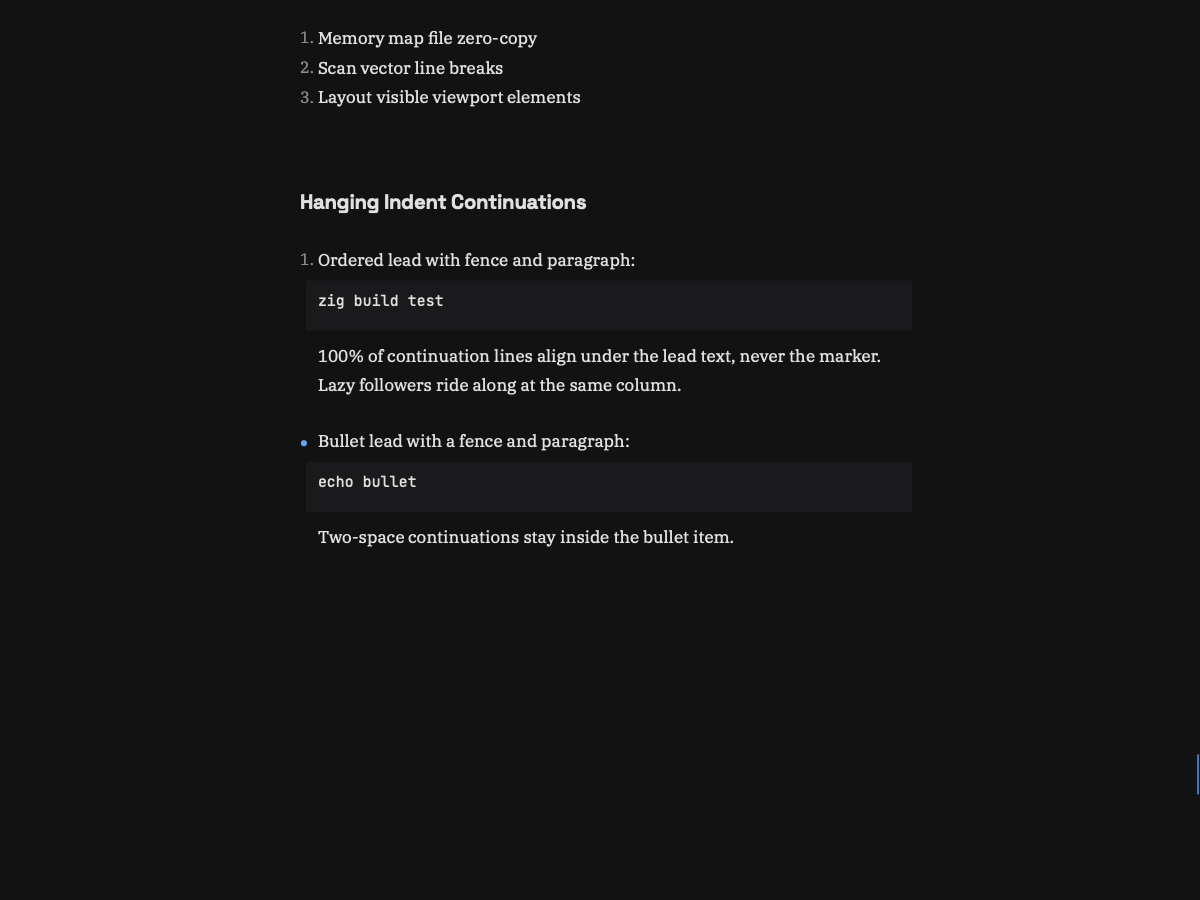
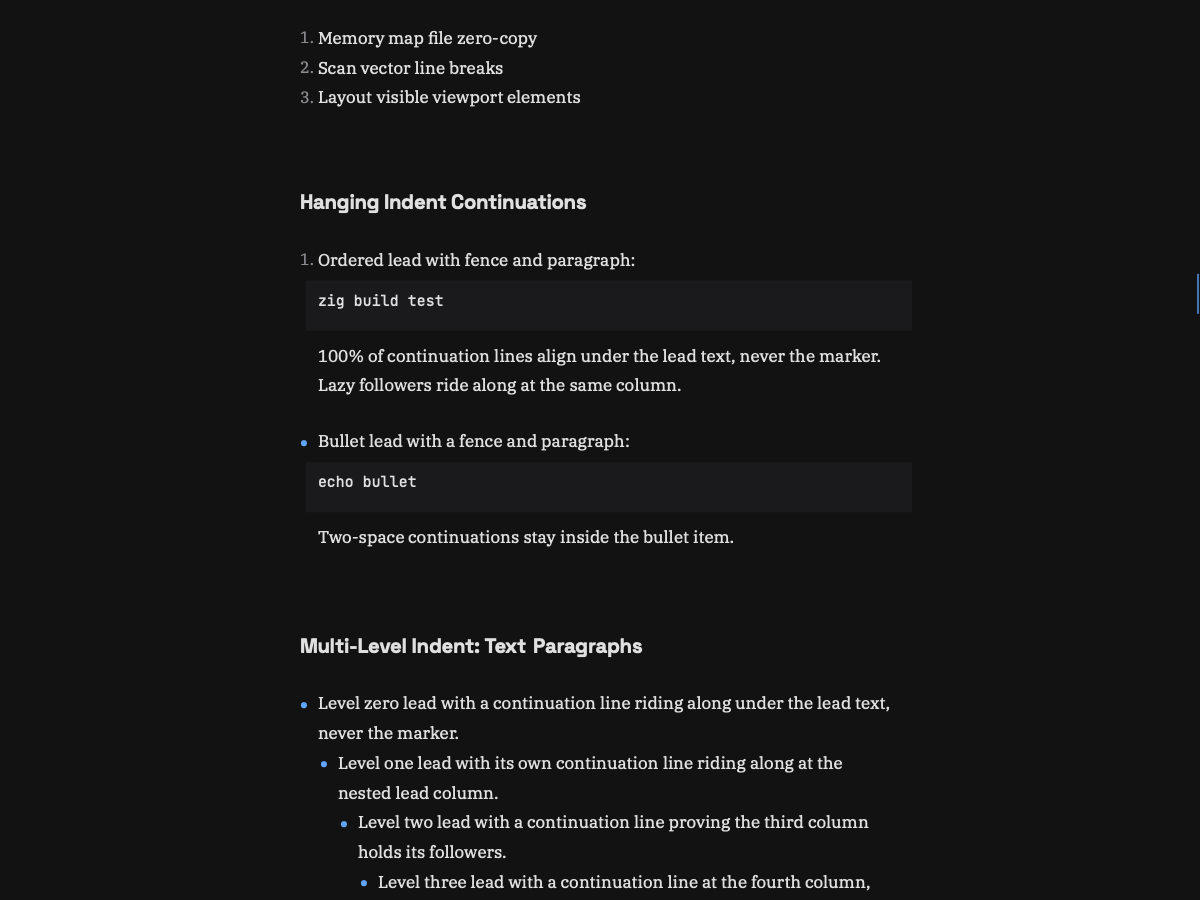
[#324] Multi-level indent 0-5 screenshots plus nested-fence support
Owner round-two: cover multi-level indenting (0-5) with text paragraphs
and with code blocks. Same-doc scrolled frames only (3c/3d), no new test
case.

The code-blocks coverage exposed two real gaps, both fixed cold (scanner
untouched, zero hot-path cost):
- promoteNestedFences (once per open): fence runs at indent >= 4 owned
  by a list item with relative indent <= 3 promote to fence regions, so
  measure/render/refine and the owner claim work unchanged. Unclosed,
  dedented, and scanner-claimed regions are left exactly as today.
- enclosingListMarker code cutoff is relative (max(8, need + 4)), never
  absolute: 8sp+ trailers in deep items are lazy paragraphs, and
  indentedCodeLeader no longer claims in-item continuations after an
  in-item fence_end as top-level code cards.

5 new unit tests; 466/466 green in-suite.

diff --git a/test_cases/code_and_tasks.md b/test_cases/code_and_tasks.md
@@ -37,3 +37,58 @@ pub fn main() void {
   echo bullet
   ```
   Two-space continuations stay inside the bullet item.
+
+### Multi-Level Indent: Text Paragraphs
+
+- Level zero lead with a continuation line riding along
+  under the lead text, never the marker.
+  - Level one lead with its own continuation line riding
+    along at the nested lead column.
+    - Level two lead with a continuation line proving the
+      third column holds its followers.
+      - Level three lead with a continuation line at the
+        fourth column, still inside the item.
+        - Level four lead with a continuation line holding
+          the fifth column alignment.
+          - Level five lead with a continuation line at the
+            deepest column of the chain.
+
+1. Ordered level zero lead with a continuation line under
+   the lead text, never the marker.
+   1. Ordered level one lead with its continuation riding
+      at the nested ordered column.
+      1. Ordered level two lead with a continuation holding
+         the deepest ordered column.
+
+### Multi-Level Indent: Code Blocks
+
+- Level zero item carrying a fence:
+  ```
+  echo zero
+  ```
+  trailing line stays at the level zero column.
+  - Level one item carrying a fence:
+    ```
+    echo one
+    ```
+    trailing line stays at the level one column.
+    - Level two item carrying a fence:
+      ```
+      echo two
+      ```
+      trailing line stays at the level two column.
+      - Level three item carrying a fence:
+        ```
+        echo three
+        ```
+        trailing line stays at the level three column.
+        - Level four item carrying a fence:
+          ```
+          echo four
+          ```
+          trailing line stays at the level four column.
+          - Level five item carrying a fence:
+            ```
+            echo five
+            ```
+            trailing line stays at the level five column.
